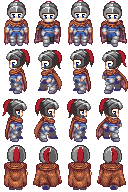
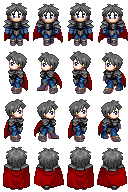
facut animatiile putin mai generale

diff --git a/src/game/Entitati/Entitate.java b/src/game/Entitati/Entitate.java
@@ -3,6 +3,7 @@ package game.Entitati;
 import org.newdawn.slick.GameContainer;
 import org.newdawn.slick.Graphics;
 import org.newdawn.slick.Image;
+import org.newdawn.slick.SpriteSheet;
 import org.newdawn.slick.geom.Rectangle;
 import org.newdawn.slick.state.StateBasedGame;
 
@@ -23,7 +24,7 @@ public class Entitate extends Physics {
     public Entitate(float x, float y) {
         this.x = x;
         this.y = y;
-        Imagini();
+        Imagini( LoadSheet() );
         setPoly(x, y, dimW, dimH);
         setViata();
     }
@@ -36,10 +37,47 @@ public class Entitate extends Physics {
 
     }
     
+    protected void Animatie(int delta){
+
+        if( isMoving == true )
+            interval += delta;
+        else{
+            frame=0;
+            interval=intervalTo-1;
+        }
+        
+        if( interval > intervalTo ) {
+            interval = 0;
+            frame++;
+        }
+        
+        if( frame == img[0].length )
+            frame = 0;
+
+    }
     
-    
-    
-    //                 getters
+    protected String LoadSheet(){
+        dimW = 32;
+        dimH = 48;
+        return null;
+    }
+
+    protected void Imagini(String link) {
+        SpriteSheet sheet = null;
+        
+        try {
+            sheet = new SpriteSheet( link , (int)dimW, (int)dimH);
+        } catch (Exception e) {
+            e.printStackTrace();
+        }
+        
+        img = new Image[sheet.getVerticalCount()][sheet.getHorizontalCount()];
+
+        for( int j = 0; j < sheet.getVerticalCount(); j++ )
+            for( int i = 0; i < sheet.getHorizontalCount(); i++ ) {
+                img[j][i] = sheet.getSprite(i, j);
+            }
+    }
 
     protected void setViata() {
         viata = 100;
@@ -47,9 +85,6 @@ public class Entitate extends Physics {
 
     protected void setPoly(float x, float y, float w, float h) {
         poly = new Rectangle (x,y,w,h);
-    }
-
-    protected void Imagini() {
     }
 
     protected void modX(float amont) {
@@ -61,6 +96,9 @@ public class Entitate extends Physics {
         y += amont;
         poly.setY(y);
     }
+    
+    
+    //                 getters
 
     public float getX() {
         return x;

diff --git a/src/game/Entitati/Player.java b/src/game/Entitati/Player.java
@@ -2,12 +2,12 @@ package game.Entitati;
 
 import org.newdawn.slick.GameContainer;
 import org.newdawn.slick.Graphics;
-import org.newdawn.slick.Image;
 import org.newdawn.slick.Input;
-import org.newdawn.slick.SpriteSheet;
 import org.newdawn.slick.state.StateBasedGame;
 
 public class Player extends Entitate {
+    
+    
 
     public Player(float x, float y) {
         super(x, y);
@@ -52,22 +52,8 @@ public class Player extends Entitate {
                 modX(speed * delta);
             }
         }
-
-        if( isMoving == true )
-            interval += delta;
-        else{
-            frame=0;
-            interval=intervalTo-1;
-        }
         
-        if( interval > intervalTo ) {
-            interval = 0;
-            frame++;
-        }
-        
-        if( frame == img[0].length )
-            frame = 0;
-
+        Animatie(delta);
     }
 
     public void render(GameContainer gc, StateBasedGame sbg, Graphics g) {
@@ -81,27 +67,10 @@ public class Player extends Entitate {
     protected void setViata() {
         viata = 150;
     }
-
-    protected void Imagini() {
-        SpriteSheet sheet = null;
-        
+    
+    protected String LoadSheet(){
         dimW = 32;
         dimH = 48;
-        
-        try {
-            sheet = new SpriteSheet("res/entitati/player.png", (int)dimW, (int)dimH);
-        } catch (Exception e) {
-            e.printStackTrace();
-        }
-        
-        img = new Image[sheet.getVerticalCount()][sheet.getHorizontalCount()];
-
-        //        System.out.println(img[0].length);
-
-        for( int j = 0; j < sheet.getVerticalCount(); j++ )
-            for( int i = 0; i < sheet.getHorizontalCount(); i++ ) {
-                img[j][i] = sheet.getSprite(i, j);
-            }
-
+        return "res/entitati/player.png" ;
     }
 }
